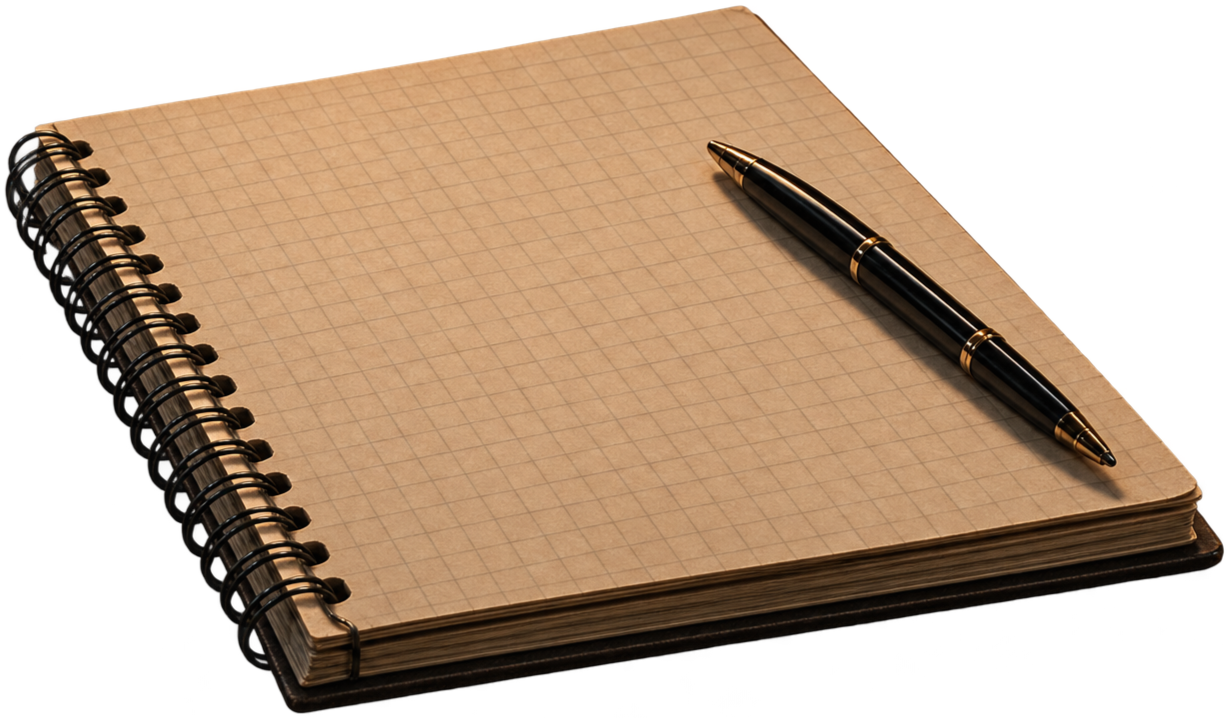
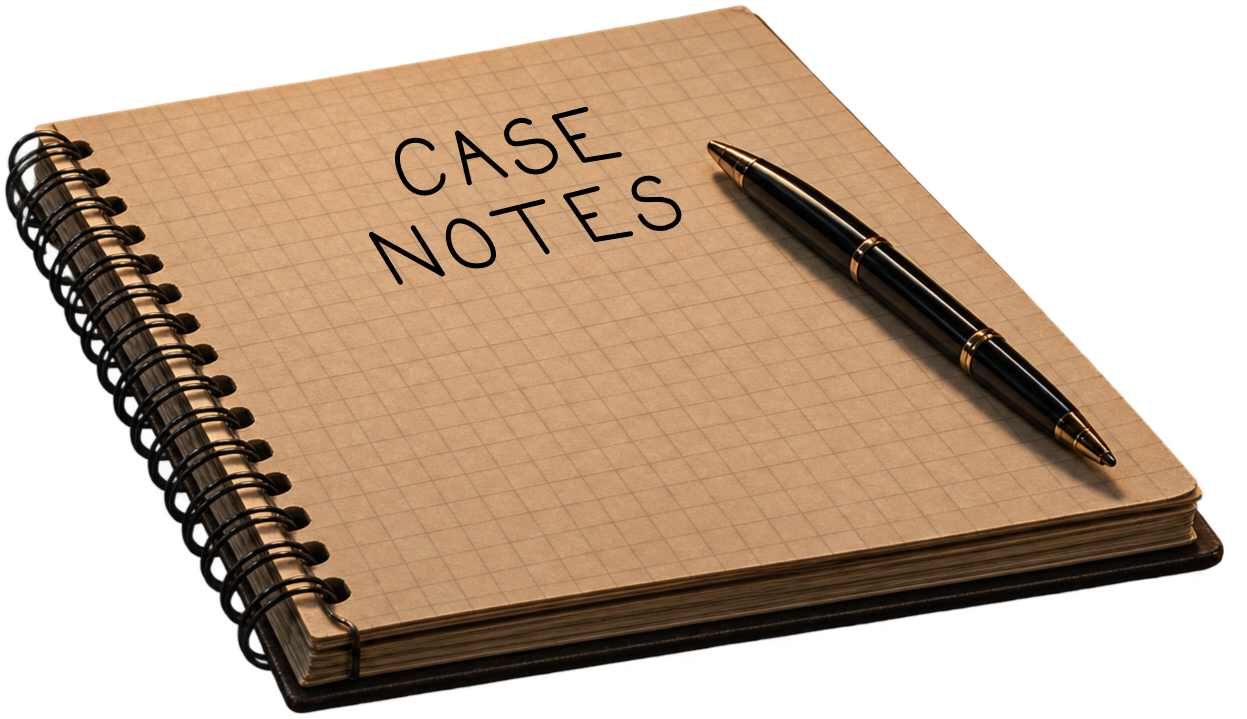
ref: upd office layout

diff --git a/app/investigation/[investigationId]/office/page.tsx b/app/investigation/[investigationId]/office/page.tsx
@@ -1,20 +1,58 @@
 import { Notebook } from '@/app/components/Notebook';
-import { Polaroid } from '../../../components/Polaroid';
+import { Polaroid } from '@/app/components/Polaroid';
 import { IGameCharacter } from '@/lib/interfaces/characters';
 
 const OfficePage = async ({ params }: { params: Promise<{ investigationId: string }> }) => {
   const { investigationId } = await params;
 
-  const res = await fetch(`/api/investigations/${investigationId}/office`, {
-    cache: 'no-store',
-  });
+  // const res = await fetch(`/api/investigations/${investigationId}/office`, {
+  //   cache: 'no-store',
+  // });
 
-  const data = await res.json();
-  const characters: IGameCharacter[] = data.investigation.characters;
+  // const data = await res.json();
+  // const characters: IGameCharacter[] = data.investigation.characters;
+  const characters = [
+    {
+      first_name: 'Rosa',
+      last_name: 'Pantern',
+      relationship: 'panter hallucination',
+      description: 'tydlig hallucination som borde lämnat Clouseau för länge sedan',
+      image_url: null,
+      is_guilty: false,
+      is_victim: false,
+    },
+    {
+      first_name: 'Hercule',
+      last_name: 'Poirot',
+      relationship: 'detektiv',
+      description: 'ser allt, glömmer inget',
+      image_url: null,
+      is_guilty: false,
+      is_victim: false,
+    },
+    {
+      first_name: 'Jacques',
+      last_name: 'Clouseau',
+      relationship: 'polis',
+      description: 'klumpig och naiv fransk polis',
+      image_url: null,
+      is_guilty: false,
+      is_victim: true,
+    },
+    {
+      first_name: 'Jack',
+      last_name: 'Gaston',
+      relationship: 'Tjuvjägare',
+      description: 'Kvinnokarl',
+      image_url: null,
+      is_guilty: true,
+      is_victim: false,
+    },
+  ];
 
   return (
     <div className="relative min-h-[calc(100vh-64px-80px)] bg-[url(/images/backgrounds/office-bg.png)] bg-top-right bg-no-repeat bg-cover">
-      <section className="grid grid-flow-col auto-cols-max gap-2 justify-center mx-2 pt-20 -rotate-3">
+      <section className="grid grid-flow-col auto-cols-max gap-2 justify-center mx-2 pt-[16%] -rotate-3">
         {characters.map((p: IGameCharacter, i: number) => (
           <Polaroid c={p} key={i} />
         ))}

diff --git a/app/components/Notebook.tsx b/app/components/Notebook.tsx
@@ -1,6 +1,7 @@
 'use client';
 
 import Link from 'next/link';
+import Image from 'next/image';
 import { useParams } from 'next/navigation';
 import notebook from '@/public/images/item-backgrounds/notebookv2.png';
 
@@ -10,10 +11,14 @@ export const Notebook = () => {
   const baseUrl = `/investigation/${investigationId}`;
   console.log(notebook.height, notebook.width);
   return (
-    <Link
-      href={`${baseUrl}/notes`}
-      className="w-screen aspect-[1247/493] bg-[url(/images/item-backgrounds/notebookv2.png)] bg-bottom bg-no-repeat bg-cover"
-    >
+    <Link href={`${baseUrl}/notes`} className={`w-[45%] h-auto  `}>
+      <Image
+        src="/images/item-backgrounds/notebook.png"
+        alt=""
+        width={1920}
+        height={1247}
+        className="w-[100%] h-auto pb-[30%]"
+      />
       {/* <p className="!text-xl text-surface !font-bold -rotate-8 mt-5 ml-15">case notes</p> */}
     </Link>
   );
